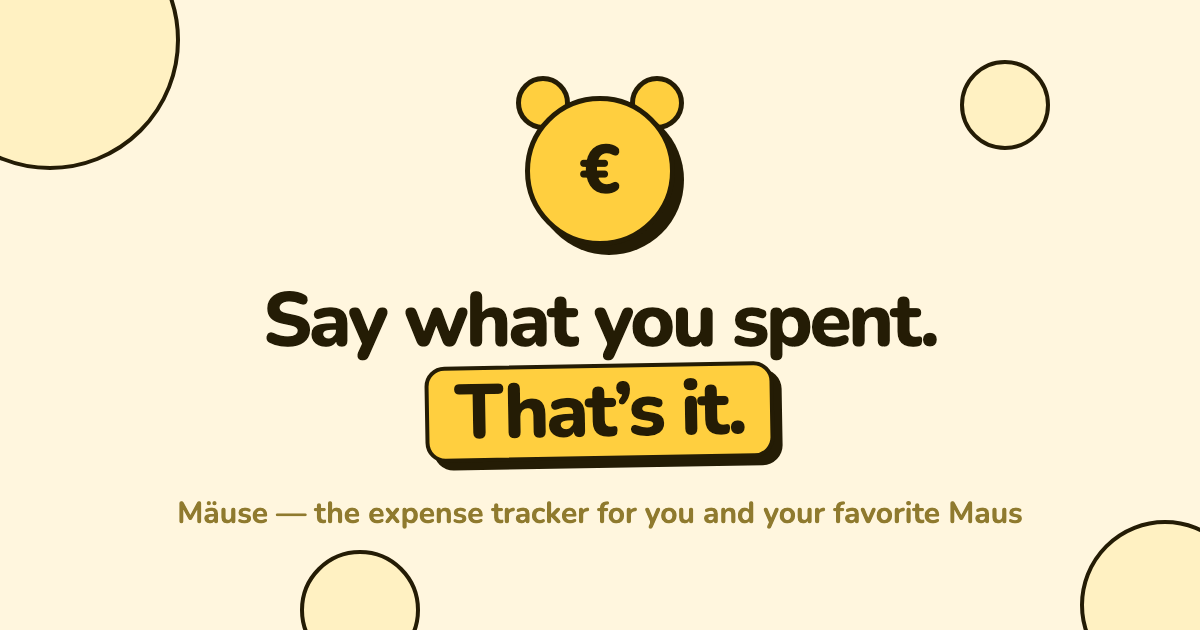
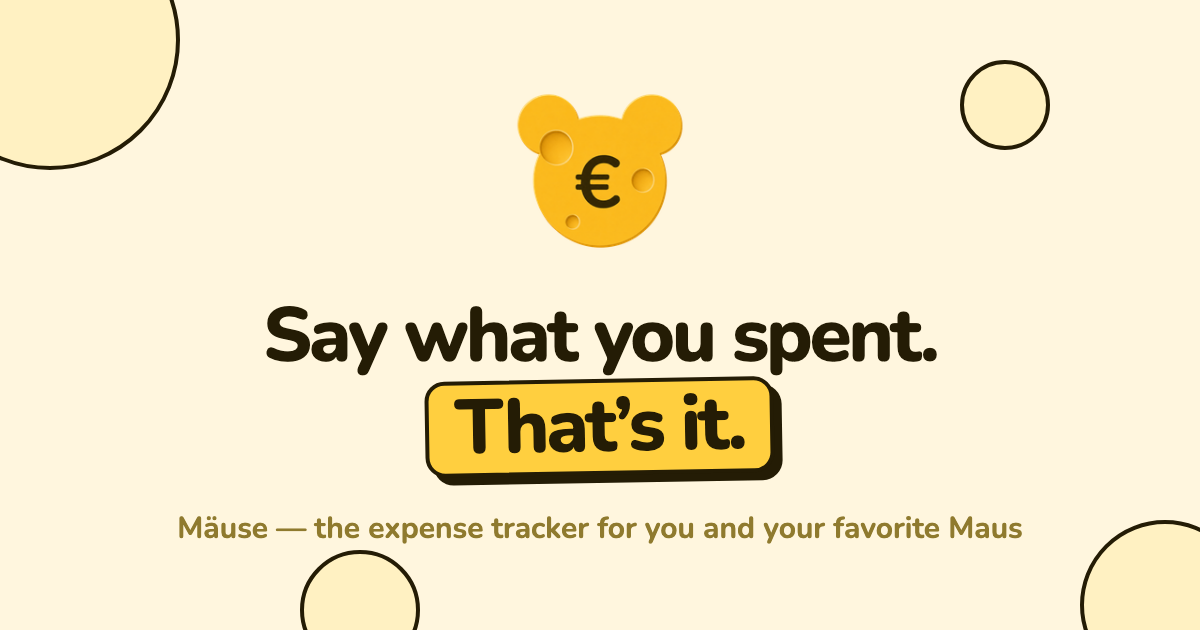
Use the official brand assets from the iOS app
- Replace the CSS-drawn coin-mouse with the real cheese-mouse mark
  (CoinMouseMark) in the header, favicon, and phone mockup
- Show the actual app icon in the download banner
- Regenerate all icon PNGs and the social preview image from the
  official AppIcon and brand mark
- Remove the hand-drawn logo.svg

Changed region(s): [[0.1233, 0.4524, 0.8633, 0.8746], [0.4317, 0.1206, 0.5858, 0.4222]]

diff --git a/index.html b/index.html
@@ -29,7 +29,7 @@
 <meta name="twitter:image" content="https://xn--muse-loa.app/assets/og-image.png">
 <meta name="twitter:image:alt" content="Mäuse coin-mouse logo with the tagline: Say what you spent. That's it.">
 
-<link rel="icon" type="image/svg+xml" href="assets/logo.svg">
+<link rel="icon" type="image/png" sizes="192x192" href="assets/coin-mouse.png">
 <link rel="apple-touch-icon" href="assets/icon-180.png">
 <link rel="preconnect" href="https://fonts.googleapis.com">
 <link rel="preconnect" href="https://fonts.gstatic.com" crossorigin>
@@ -54,11 +54,7 @@
 <header class="site-header">
   <div class="container header-inner">
     <a href="#top" class="brand">
-      <div class="coin-mouse" aria-hidden="true">
-        <div class="ear left"></div>
-        <div class="ear right"></div>
-        <div class="face">€</div>
-      </div>
+      <img class="brand-mark" src="assets/coin-mouse.png" alt="" aria-hidden="true">
       <span class="brand-name">Mäuse</span>
     </a>
     <nav class="main-nav">
@@ -114,11 +110,7 @@
             <div class="app">
               <div class="app-top">
                 <div class="app-brand">
-                  <div class="coin-mouse" aria-hidden="true">
-                    <div class="ear left"></div>
-                    <div class="ear right"></div>
-                    <div class="face">€</div>
-                  </div>
+                  <img class="app-mark" src="assets/coin-mouse.png" alt="" aria-hidden="true">
                   <span class="name">Mäuse</span>
                 </div>
                 <button type="button" class="app-settings-btn" id="app-settings" aria-label="Settings">
@@ -516,11 +508,7 @@
       <div class="hole hole-a" aria-hidden="true"></div>
       <div class="hole hole-b" aria-hidden="true"></div>
       <div class="hole hole-c" aria-hidden="true"></div>
-      <div class="download-mouse" aria-hidden="true">
-        <div class="ear left"></div>
-        <div class="ear right"></div>
-        <div class="face">€</div>
-      </div>
+      <img class="download-appicon" src="assets/icon-192.png" alt="Mäuse app icon" width="96" height="96">
       <h2 data-i18n="dlTitle">The trap is set.</h2>
       <p data-i18n="dlBody">Mäuse is free on the App Store. Grab it, bring your own Maus, and never argue about who paid for dinner again.</p>
       <a href="https://apps.apple.com/app/maeuse" target="_blank" rel="noopener" class="btn-download" data-link="appstore">

diff --git a/style.css b/style.css
@@ -128,28 +128,9 @@ a:hover { color: #B87E00; }
   html { scroll-behavior: auto; }
 }
 
-/* ---------- coin-mouse logo ---------- */
-.coin-mouse { position: relative; width: 34px; height: 34px; }
-.coin-mouse .ear {
-  position: absolute;
-  width: 13px; height: 13px;
-  border-radius: 99px;
-  background: var(--yellow);
-  border: 2px solid var(--ink);
-  top: -4px;
-  transform-origin: 80% 100%;
-  animation: mz-earwig 6s ease-in-out infinite;
-}
-.coin-mouse .ear.left { left: -2px; }
-.coin-mouse .ear.right { right: -2px; transform-origin: 20% 100%; animation-delay: 0.15s; }
-.coin-mouse .face {
-  position: absolute; inset: 0;
-  border-radius: 99px;
-  background: var(--yellow);
-  border: 2px solid var(--ink);
-  display: flex; align-items: center; justify-content: center;
-  font-size: 16px; font-weight: 800; color: var(--ink);
-}
+/* ---------- brand mark (cheese-mouse from the iOS app) ---------- */
+.brand-mark { width: 38px; height: 38px; display: block; }
+.app-mark { width: 36px; height: 36px; display: block; }
 
 /* ---------- floating cheese holes ---------- */
 .hole {
@@ -1174,21 +1155,12 @@ html[data-theme="dark"] .theme-toggle .icon-sun { display: block; }
 .download-banner .hole-b { width: 56px; height: 56px; bottom: 30px; right: 60px; animation-duration: 7s; animation-delay: 1s; }
 .download-banner .hole-c { width: 30px; height: 30px; top: 44px; right: 200px; animation-duration: 9s; animation-delay: 2s; }
 
-.download-mouse { position: relative; width: 84px; height: 84px; }
-.download-mouse .ear {
-  position: absolute; width: 30px; height: 30px; border-radius: 99px;
-  background: #fff; border: 3px solid var(--ink);
-  top: -11px; transform-origin: 80% 100%;
-  animation: mz-earwig 5s ease-in-out infinite;
-}
-.download-mouse .ear.left { left: -5px; }
-.download-mouse .ear.right { right: -5px; transform-origin: 20% 100%; animation-delay: 0.15s; }
-.download-mouse .face {
-  position: absolute; inset: 0; border-radius: 99px;
-  background: #fff; border: 3px solid var(--ink);
+.download-appicon {
+  position: relative;
+  width: 96px; height: 96px;
+  border-radius: 22px;
+  border: 3px solid var(--ink);
   box-shadow: 5px 5px 0 var(--ink);
-  display: flex; align-items: center; justify-content: center;
-  font-size: 38px; font-weight: 800; color: var(--ink);
 }
 .download-banner h2 {
   margin: 0;
